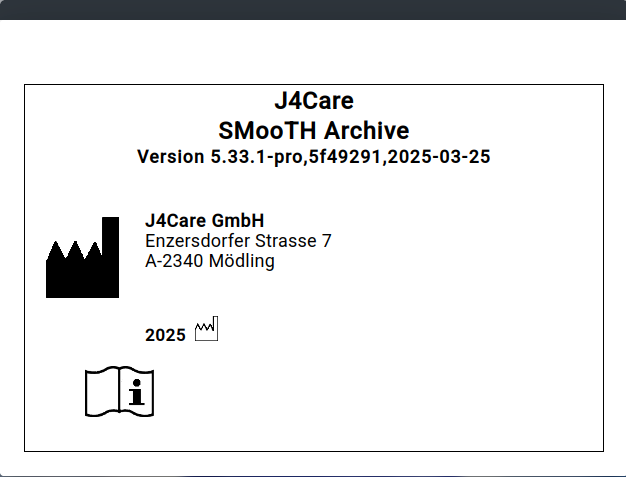
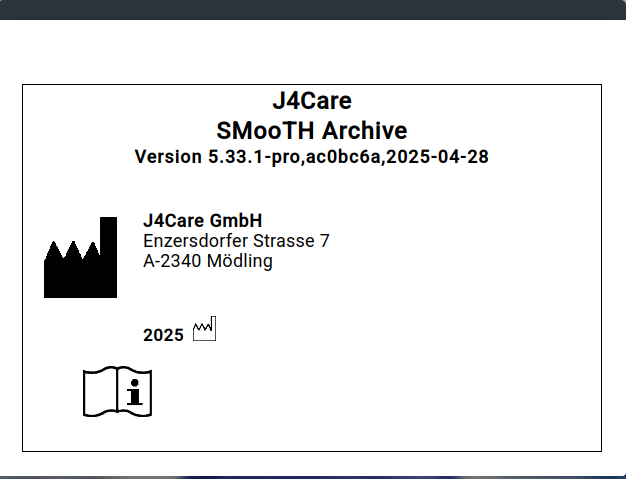
release 5.33.1-17 and improve readability hl7 notification service and outbound order, oru

diff --git a/docs/conf.py b/docs/conf.py
@@ -22,7 +22,7 @@ project = u'Smooth Archive - HL7 Conformance Statement'
 copyright = u'2025, J4Care GmbH'
 author = u'J4Care GMbH'
 version = u'5.33.1'
-release = u'5.33.1-14'
+release = u'5.33.1-17'
 
 
 # If extensions (or modules to document with autodoc) are in another directory,

diff --git a/docs/toc.rst b/docs/toc.rst
@@ -142,6 +142,8 @@ Table of Content
 |     12.2.3. :ref:`qbp_out_dicom`
 |       12.2.3.1. :ref:`qbp_out_qbp_q22_dicom`
 | 13. :doc:`dcm4chee-arc-hl7cs/source/notification/index`
+|   13.1. :doc:`orm/outbound`
+|   13.1. :doc:`oru/outbound`
 | 14. :doc:`dcm4chee-arc-hl7cs/source/fwd/index`
 | 15. :doc:`dcm4chee-arc-hl7cs/source/export/index`
 | 16. :doc:`dcm4chee-arc-hl7cs/source/prefetch/index`
